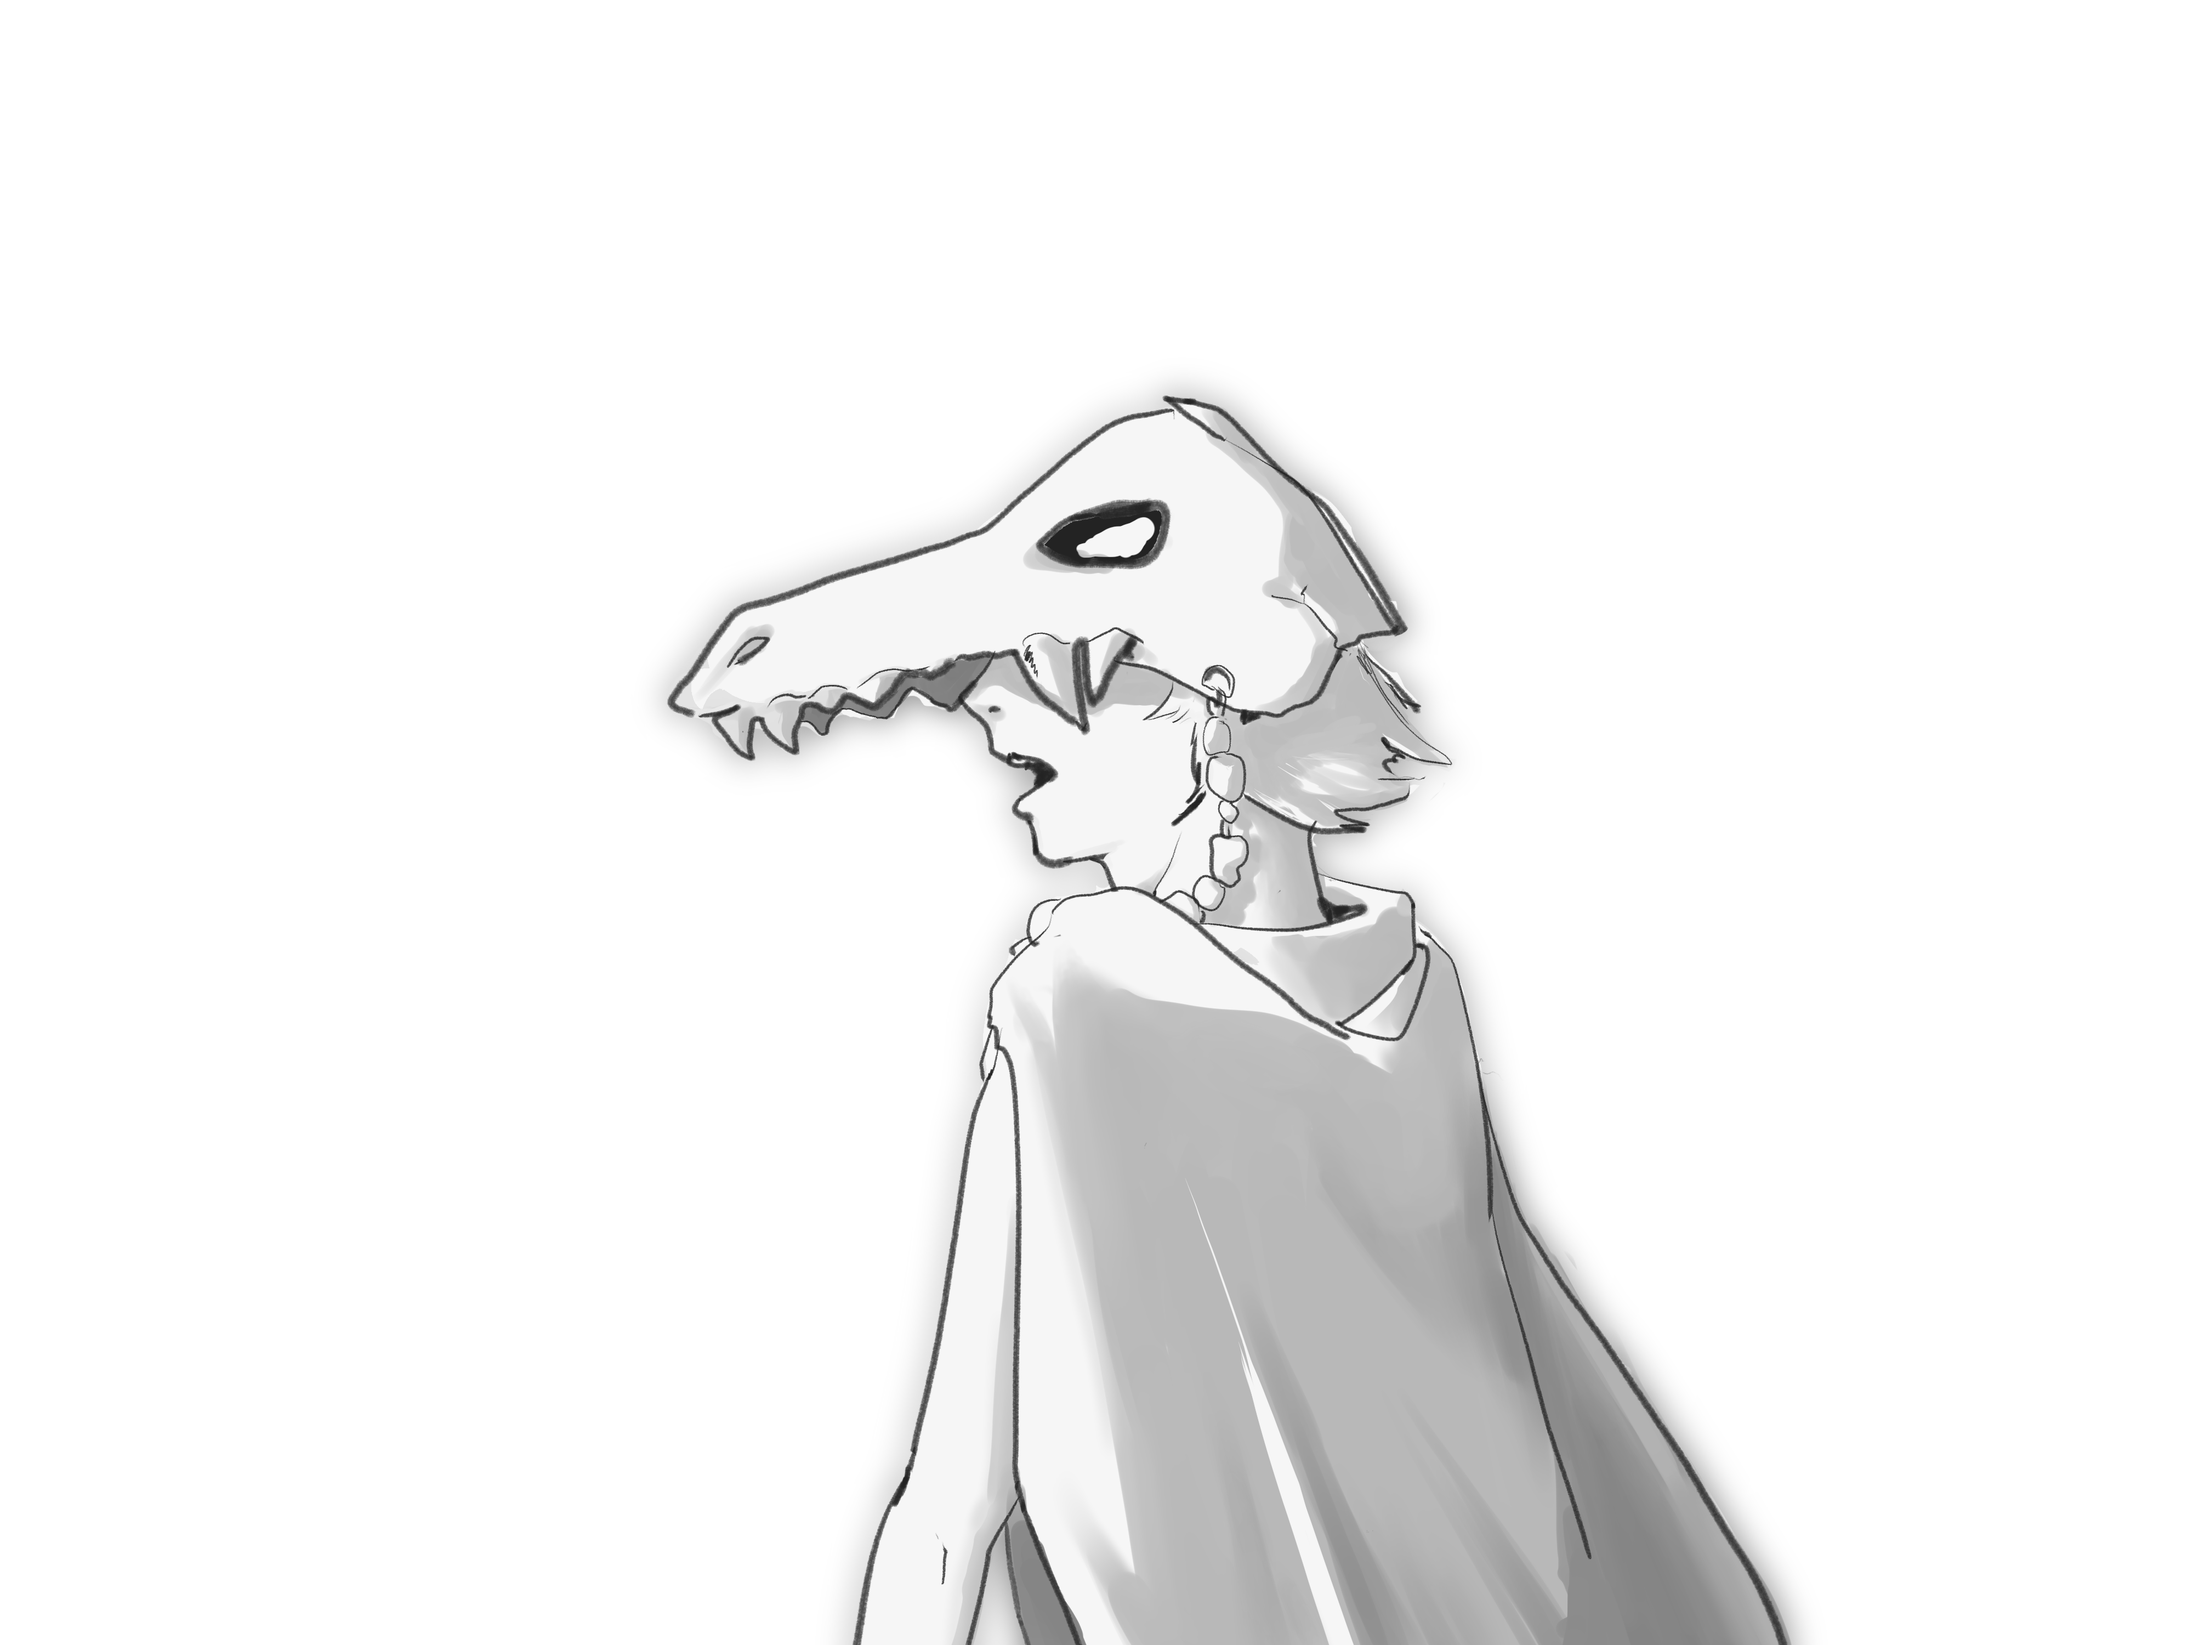
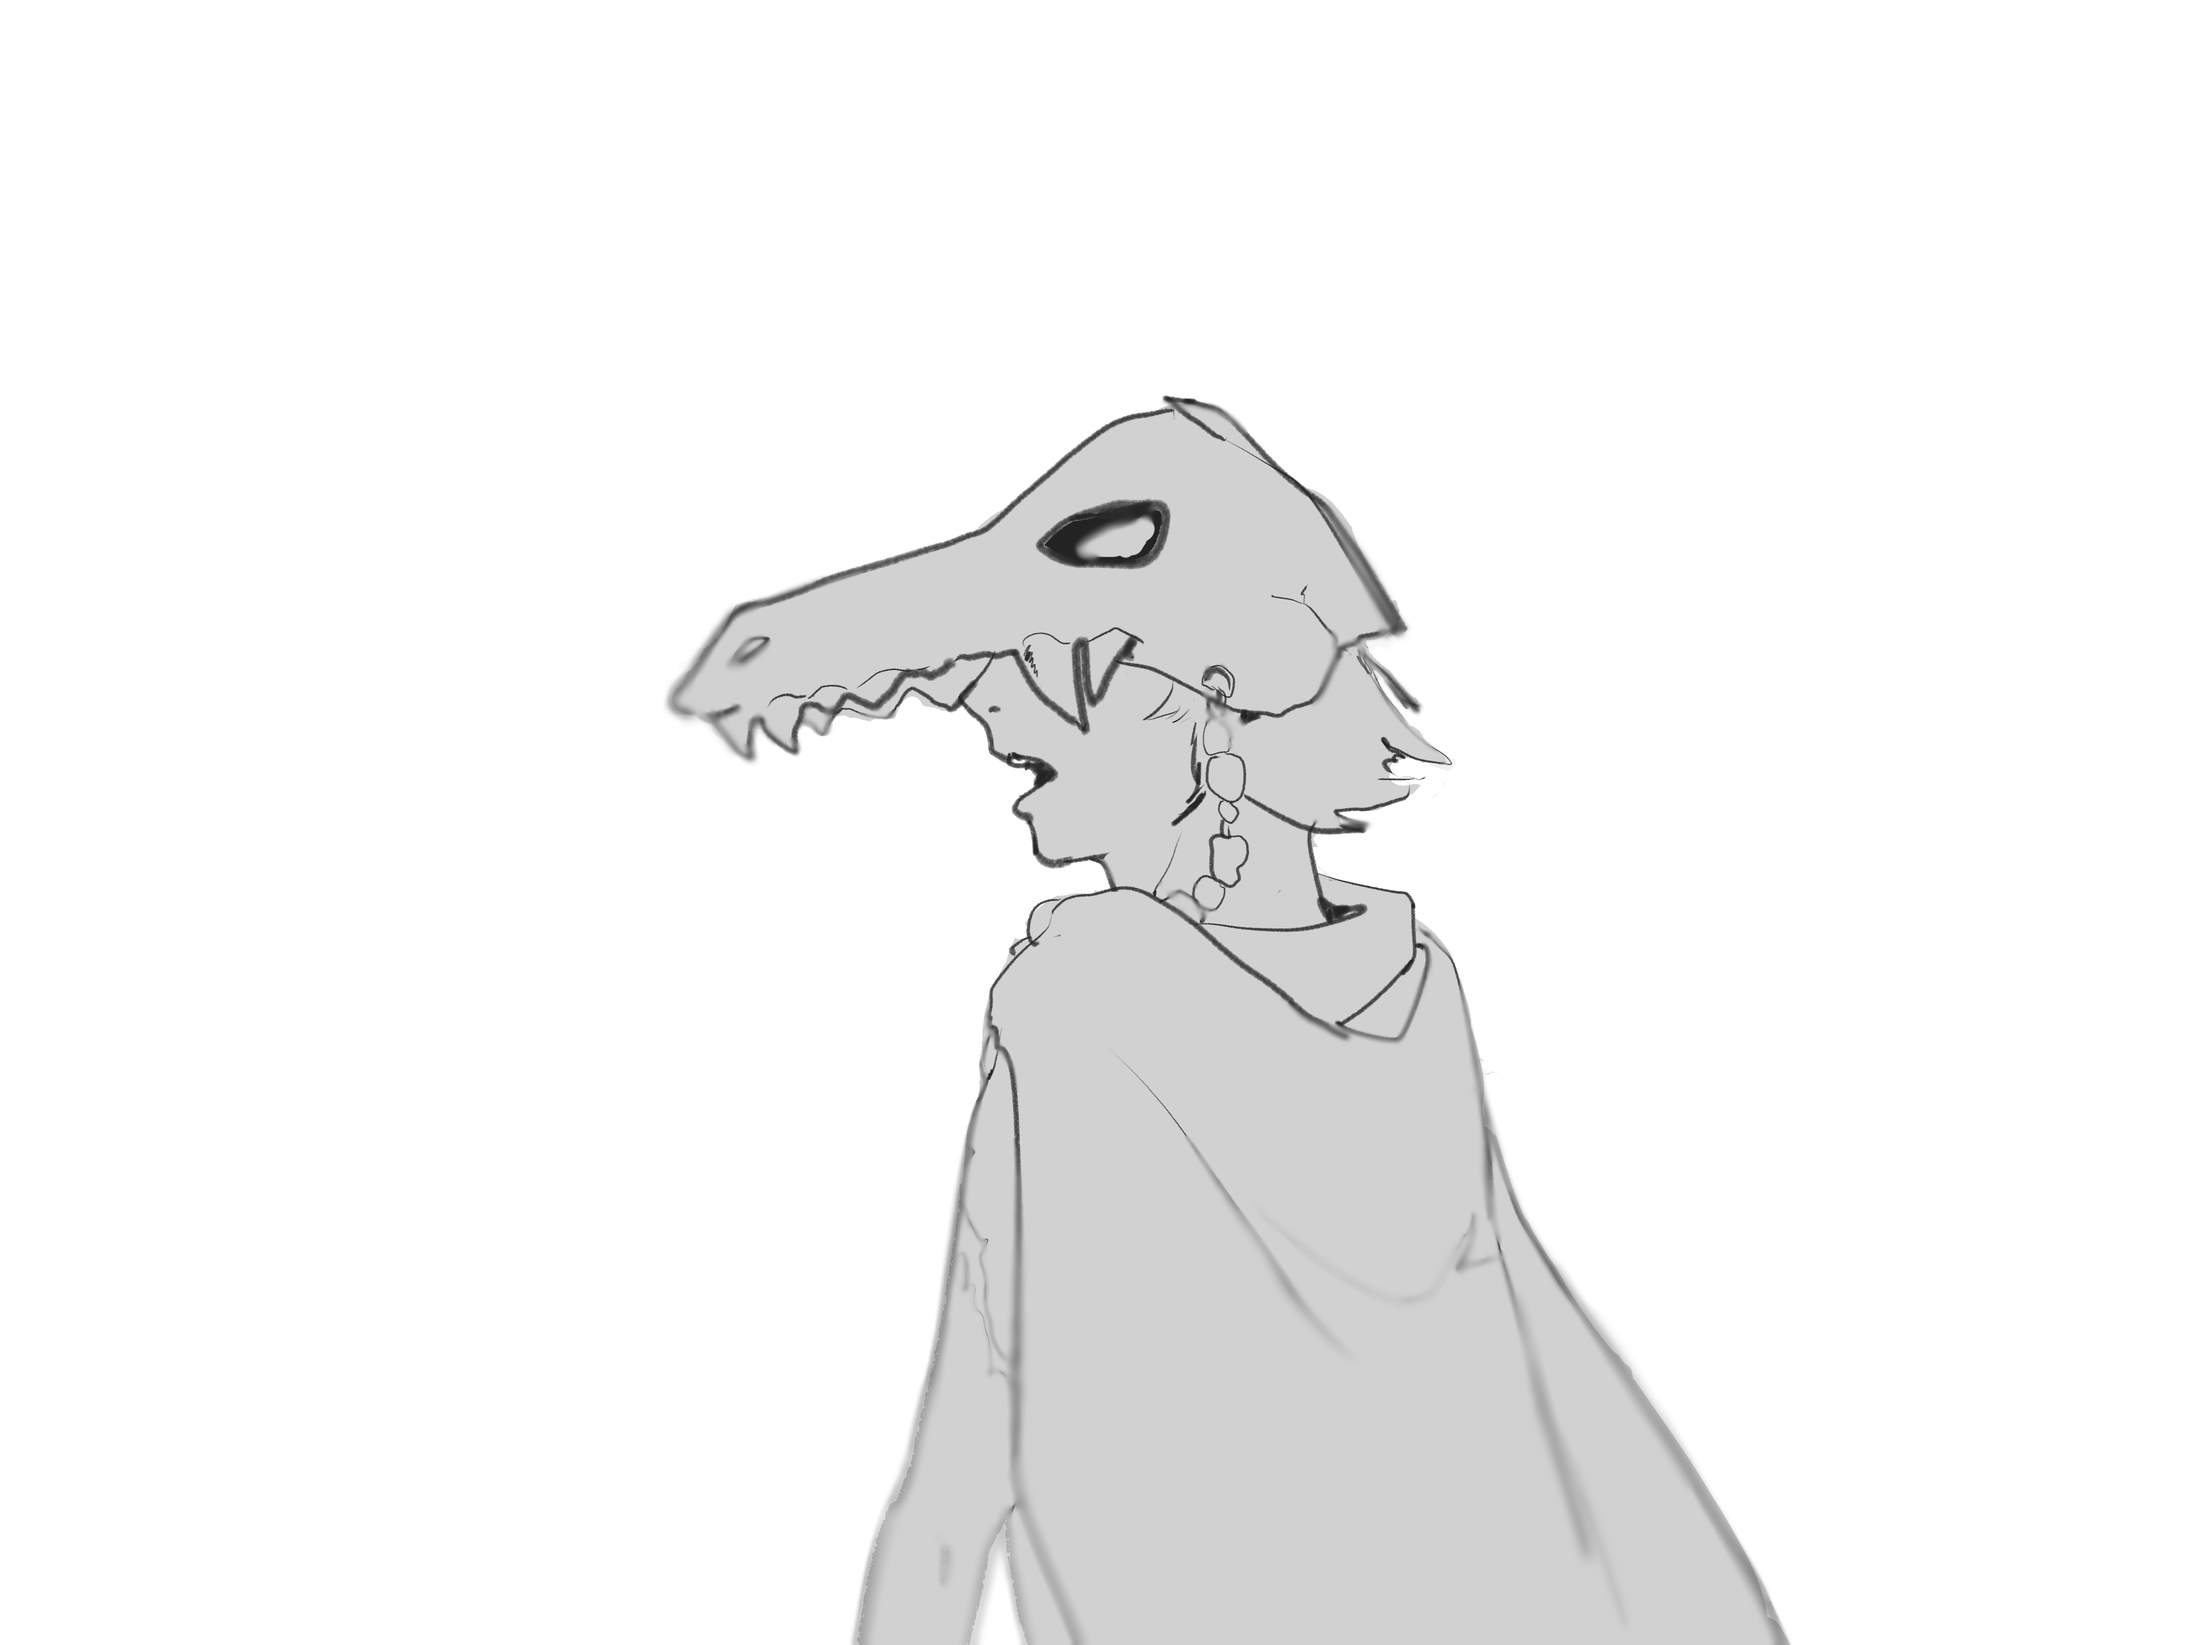
posts/drawing

Changed region(s): [[0.2812, 0.217, 0.8438, 1.0]]

diff --git a/_posts/그림/2023-03-19-드로잉2.md b/_posts/그림/2023-03-19-드로잉2.md
@@ -27,3 +27,7 @@ last_modified_at: 2023-03-26
 <br>
 
 ![230319-남자옆면](/assets/img/drawing/230319-남자옆면.png)
+
+<br>
+
+![230329-흑백선화](/assets/img/drawing/230329_흑백선화.png)
